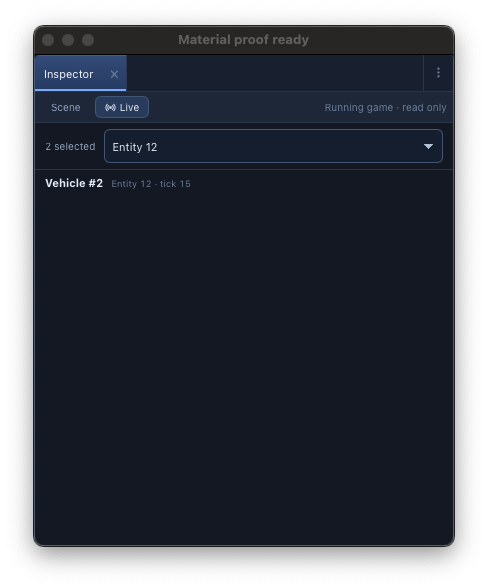
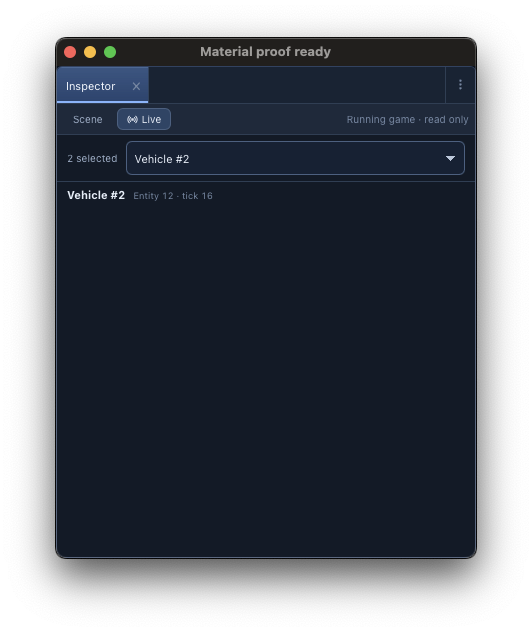
Show live object names in the Inspector selection menu

Changed region(s): [[0.0307, 0.0306, 0.9529, 0.949]]

diff --git a/apps/studio-web/src/types.ts b/apps/studio-web/src/types.ts
@@ -243,7 +243,7 @@ export interface StudioAssetResidency {
   unresolvedFailedFences: number;
   publicationBackpressured: boolean;
 }
-export interface StudioGameState { playerHistory?: { assetResidency?: StudioAssetResidency | null; geometryPool?: { allocatedBytes: number; occupiedBytes: number; pages: number; models: number }; epoch: string; tickRate?: number; units?: number; projectiles?: number; resourceNames?: Record<string,string>; samples: StudioPlayerSample[] }; geometrySource?:"Scene"; geometry?:StaticGeometryReport|null; roleLabel?:string; simulationSpeed?:number; selectedLiveRef?:string; selectedLiveRefs?:string[]; scriptErrors?: StudioScriptMessage[]; device:StudioGameDevice; epoch?:string;canReviewPlayChanges?:boolean;runtimeDebugEdited?:boolean; paused: boolean; canControl: boolean; canStep: boolean; active: boolean; loading: boolean; progress: number; inMatch: boolean; tick: number; error: string }
+export interface StudioGameState { playerHistory?: { assetResidency?: StudioAssetResidency | null; geometryPool?: { allocatedBytes: number; occupiedBytes: number; pages: number; models: number }; epoch: string; tickRate?: number; units?: number; projectiles?: number; resourceNames?: Record<string,string>; samples: StudioPlayerSample[] }; geometrySource?:"Scene"; geometry?:StaticGeometryReport|null; roleLabel?:string; simulationSpeed?:number; selectedLiveRef?:string; selectedLiveRefs?:string[]; selectedLiveNames?:Record<string,string>; scriptErrors?: StudioScriptMessage[]; device:StudioGameDevice; epoch?:string;canReviewPlayChanges?:boolean;runtimeDebugEdited?:boolean; paused: boolean; canControl: boolean; canStep: boolean; active: boolean; loading: boolean; progress: number; inMatch: boolean; tick: number; error: string }
 export interface RuntimeAnimationRow {
   entityId:string;entity:number;climbing:boolean;attached:boolean;stanceFeet:number;steppingFeet:number;
   footError:number;penetration:number;bodyPosition:number[];surfaceNormal:number[];error:string;

diff --git a/apps/studio-web/src/App.tsx b/apps/studio-web/src/App.tsx
@@ -424,7 +424,7 @@ export default function App() {
     scriptLocation: scriptLocation?.project === snapshot?.project.path ? scriptLocation : null,
     openScript: (path,line) => { setScriptLocation({project:snapshot?.project.path ?? '',path,line}); showPanel('scripts'); },
     consumeScriptLocation: () => setScriptLocation(null),
-    liveSelection: game?.epoch && game.selectedLiveRef ? {epoch:game.epoch,ref:game.selectedLiveRef,refs:game.selectedLiveRefs} : null,
+    liveSelection: game?.epoch && game.selectedLiveRef ? {epoch:game.epoch,ref:game.selectedLiveRef,refs:game.selectedLiveRefs,names:game.selectedLiveNames} : null,
     onLiveSelection: setGame, scriptErrors: game?.scriptErrors, playing: !!game?.active
   })}</PanelErrorBoundary>;
 

diff --git a/apps/studio-web/src/panels/LivePanels.tsx b/apps/studio-web/src/panels/LivePanels.tsx
@@ -146,7 +146,7 @@ export function LiveInspector({project,selection}:{project?:string;selection?:Li
       <span>{selection.refs.length} selected</span>
       <select aria-label="Inspect selected entity" value={ref}
         onChange={event => setInspected({epoch:selection.epoch,ref:event.target.value})}>
-        {selection.refs.map(id => <option value={id} key={id}>Entity {id}</option>)}
+        {selection.refs.map(id => <option value={id} key={id}>{selection.names?.[id] ?? 'Entity '+id}</option>)}
       </select>
     </label>}
     {error ? <p className="live__error" role="alert">{error}</p>

diff --git a/apps/studio-web/src/panels/livePlay.ts b/apps/studio-web/src/panels/livePlay.ts
@@ -1,7 +1,7 @@
 /** Scene/Live view preference for panels in this window. The game session owns the selected entity. */
 import { useEffect, useState } from 'react';
 
-export interface LiveRef { epoch: string; ref: string; refs?: string[] }
+export interface LiveRef { epoch: string; ref: string; refs?: string[]; names?: Record<string,string> }
 let showLive = true;
 const listeners = new Set<() => void>();
 const notify = () => listeners.forEach(l => l());

diff --git a/apps/editor/core/WorldInspect.cpp b/apps/editor/core/WorldInspect.cpp
@@ -480,28 +480,28 @@ std::vector<uint64_t> linkMapEntities(Simulation& sim, GameCore& mod, const MapD
     return out;
 }
 
-namespace {
-// The row fields of one alive entity into r (reused: clears what it sets).
-std::string runtimeEntityName(const World& w, Entity e, const char*& category) {
+std::string runtimeEntityName(const World& w, Entity e, const char** category) {
     if (const auto* character = w.tryGetConst<actor::CharacterId>(e)) {
-        category = "Runtime Actors";
+        if (category) *category = "Runtime Actors";
         return "Actor #" + std::to_string(character->slot);
     }
     if (const auto* projectile = w.tryGetConst<actor::Projectile>(e)) {
-        category = "Projectiles";
+        if (category) *category = "Projectiles";
         return "Projectile #" + std::to_string(projectile->id);
     }
     if (const auto* loot = w.tryGetConst<actor::Loot>(e)) {
-        category = "Loot";
+        if (category) *category = "Loot";
         return "Loot #" + std::to_string(loot->id);
     }
     if (const auto* vehicle = w.tryGetConst<actor::Vehicle>(e)) {
-        category = "Vehicles";
+        if (category) *category = "Vehicles";
         return "Vehicle #" + std::to_string(vehicle->id);
     }
     return {};
 }
 
+namespace {
+// The row fields of one alive entity into r (reused: clears what it sets).
 void fillRow(Simulation& sim, GameCore& mod, const WorldConfig& cfg, const GameState* gs, Entity e, WorldRow& r, const WorldReadOptions& opt) {
     World& w = sim.world();
     const Rules& R = mod.rules();
@@ -545,7 +545,7 @@ void fillRow(Simulation& sim, GameCore& mod, const WorldConfig& cfg, const GameS
             for (size_t ti = 0; ti < R.tagNames.size() && ti < 64 && !has; ++ti) has = R.tagNames[ti] == tag && (ut->tags >> ti & 1);
             if (has) { category = tag.c_str(); break; }
         }
-    r.runtimeName = runtimeEntityName(w, e, category);
+    r.runtimeName = runtimeEntityName(w, e, &category);
     r.category = category;
     r.label.clear();
     r.data.clear();
@@ -620,8 +620,7 @@ Json inspectEntity(Simulation& sim, GameCore& mod, Entity e, const Json& rulesJs
     Json r = Json::object();
     if (!w.alive(e)) { r.set("error", Json::string("object is gone")); return r; }
     const Rules& R = mod.rules();
-    const char* category = nullptr;
-    const auto runtimeName = runtimeEntityName(w, e, category);
+    const auto runtimeName = runtimeEntityName(w, e);
     if (!runtimeName.empty()) r.set("runtimeName", Json::string(runtimeName));
     Json comps = Json::object();
     for (auto& d : descs()) {

diff --git a/apps/editor/core/WorldInspect.h b/apps/editor/core/WorldInspect.h
@@ -165,6 +165,7 @@ std::string worldGroupValue(const WorldModel& m, const game::Rules& rules, const
 // Search: tokens are AND-ed; prefixes t: type, p: owner, c: component, r: region, d: script data,
 // # / id: entity or map id; a plain token matches any of them and the row name.
 bool worldRowMatches(const WorldModel& m, const game::Rules& rules, const MapData* doc, const WorldRow& r, const std::string& query);
+std::string runtimeEntityName(const World& world, Entity entity, const char** category = nullptr);
 std::string worldRowName(const WorldModel& m, const game::Rules& rules, const MapData* doc, const WorldRow& r);
 Json listWorldRows(const WorldModel& world,const game::Rules& rules,const MapData* doc,const Json& p,const char* mode);
 Json inspectWorldRow(Simulation& sim, game::GameCore& module,const WorldModel& world,const Json& rulesJson,const MapData* doc,const Json& params);

diff --git a/apps/studio-native/StudioGameSurface.cpp b/apps/studio-native/StudioGameSurface.cpp
@@ -731,7 +731,15 @@ Json StudioGameSurface::state(bool includeScriptErrors) const {
     if(!selected.empty()){
         out.set("selectedLiveRef",Json::string(selected.front()));
         Json refs=Json::array();
-        for(const auto& ref:selected)refs.push(Json::string(ref));
+        Json names=Json::object();
+        for(const auto& ref:selected){
+            refs.push(Json::string(ref));
+            if(selected.size()>1){
+                const auto name=editor::runtimeEntityName(sim->world(),editor::worldEntity(std::stoull(ref)));
+                if(!name.empty())names.set(ref,Json::string(name));
+            }
+        }
+        if(names.size())out.set("selectedLiveNames",std::move(names));
         out.set("selectedLiveRefs",std::move(refs));
     }
     if (includeScriptErrors) out.set("scriptErrors", scriptLog(true));
